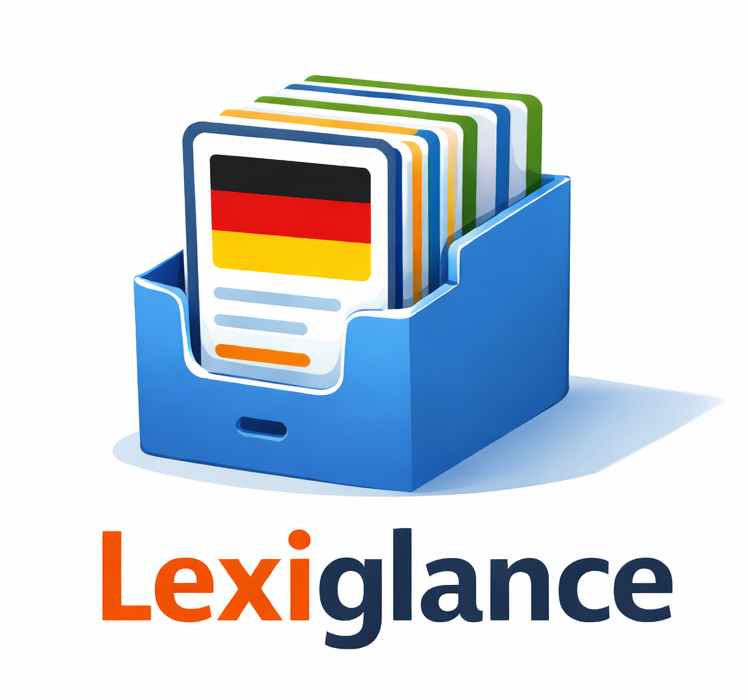
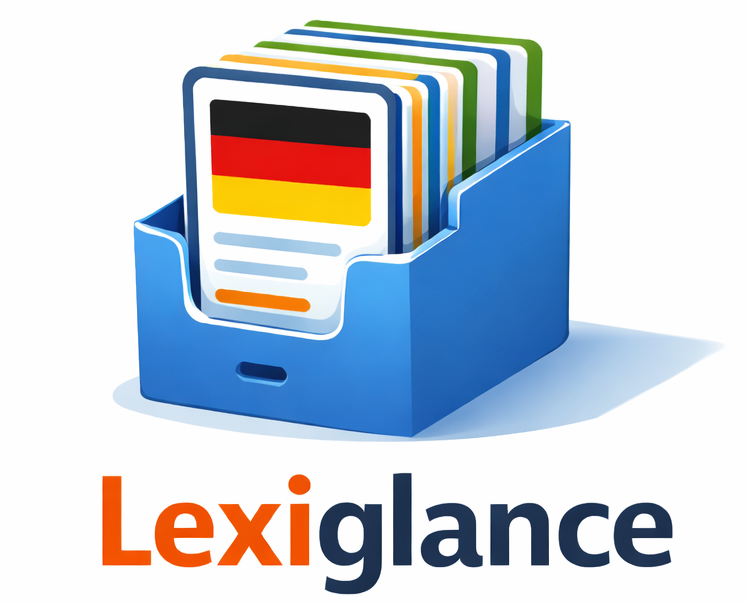
readme update

diff --git a/README.md b/README.md
@@ -1,8 +1,8 @@
 <p align="center">
   <img
-    src="assets/lexiglance_header.png"
+    src="assets/lexiglance_banner.png"
     alt="Lexiglance"
-    width="420"
+    width="720"
   />
 </p>
 
